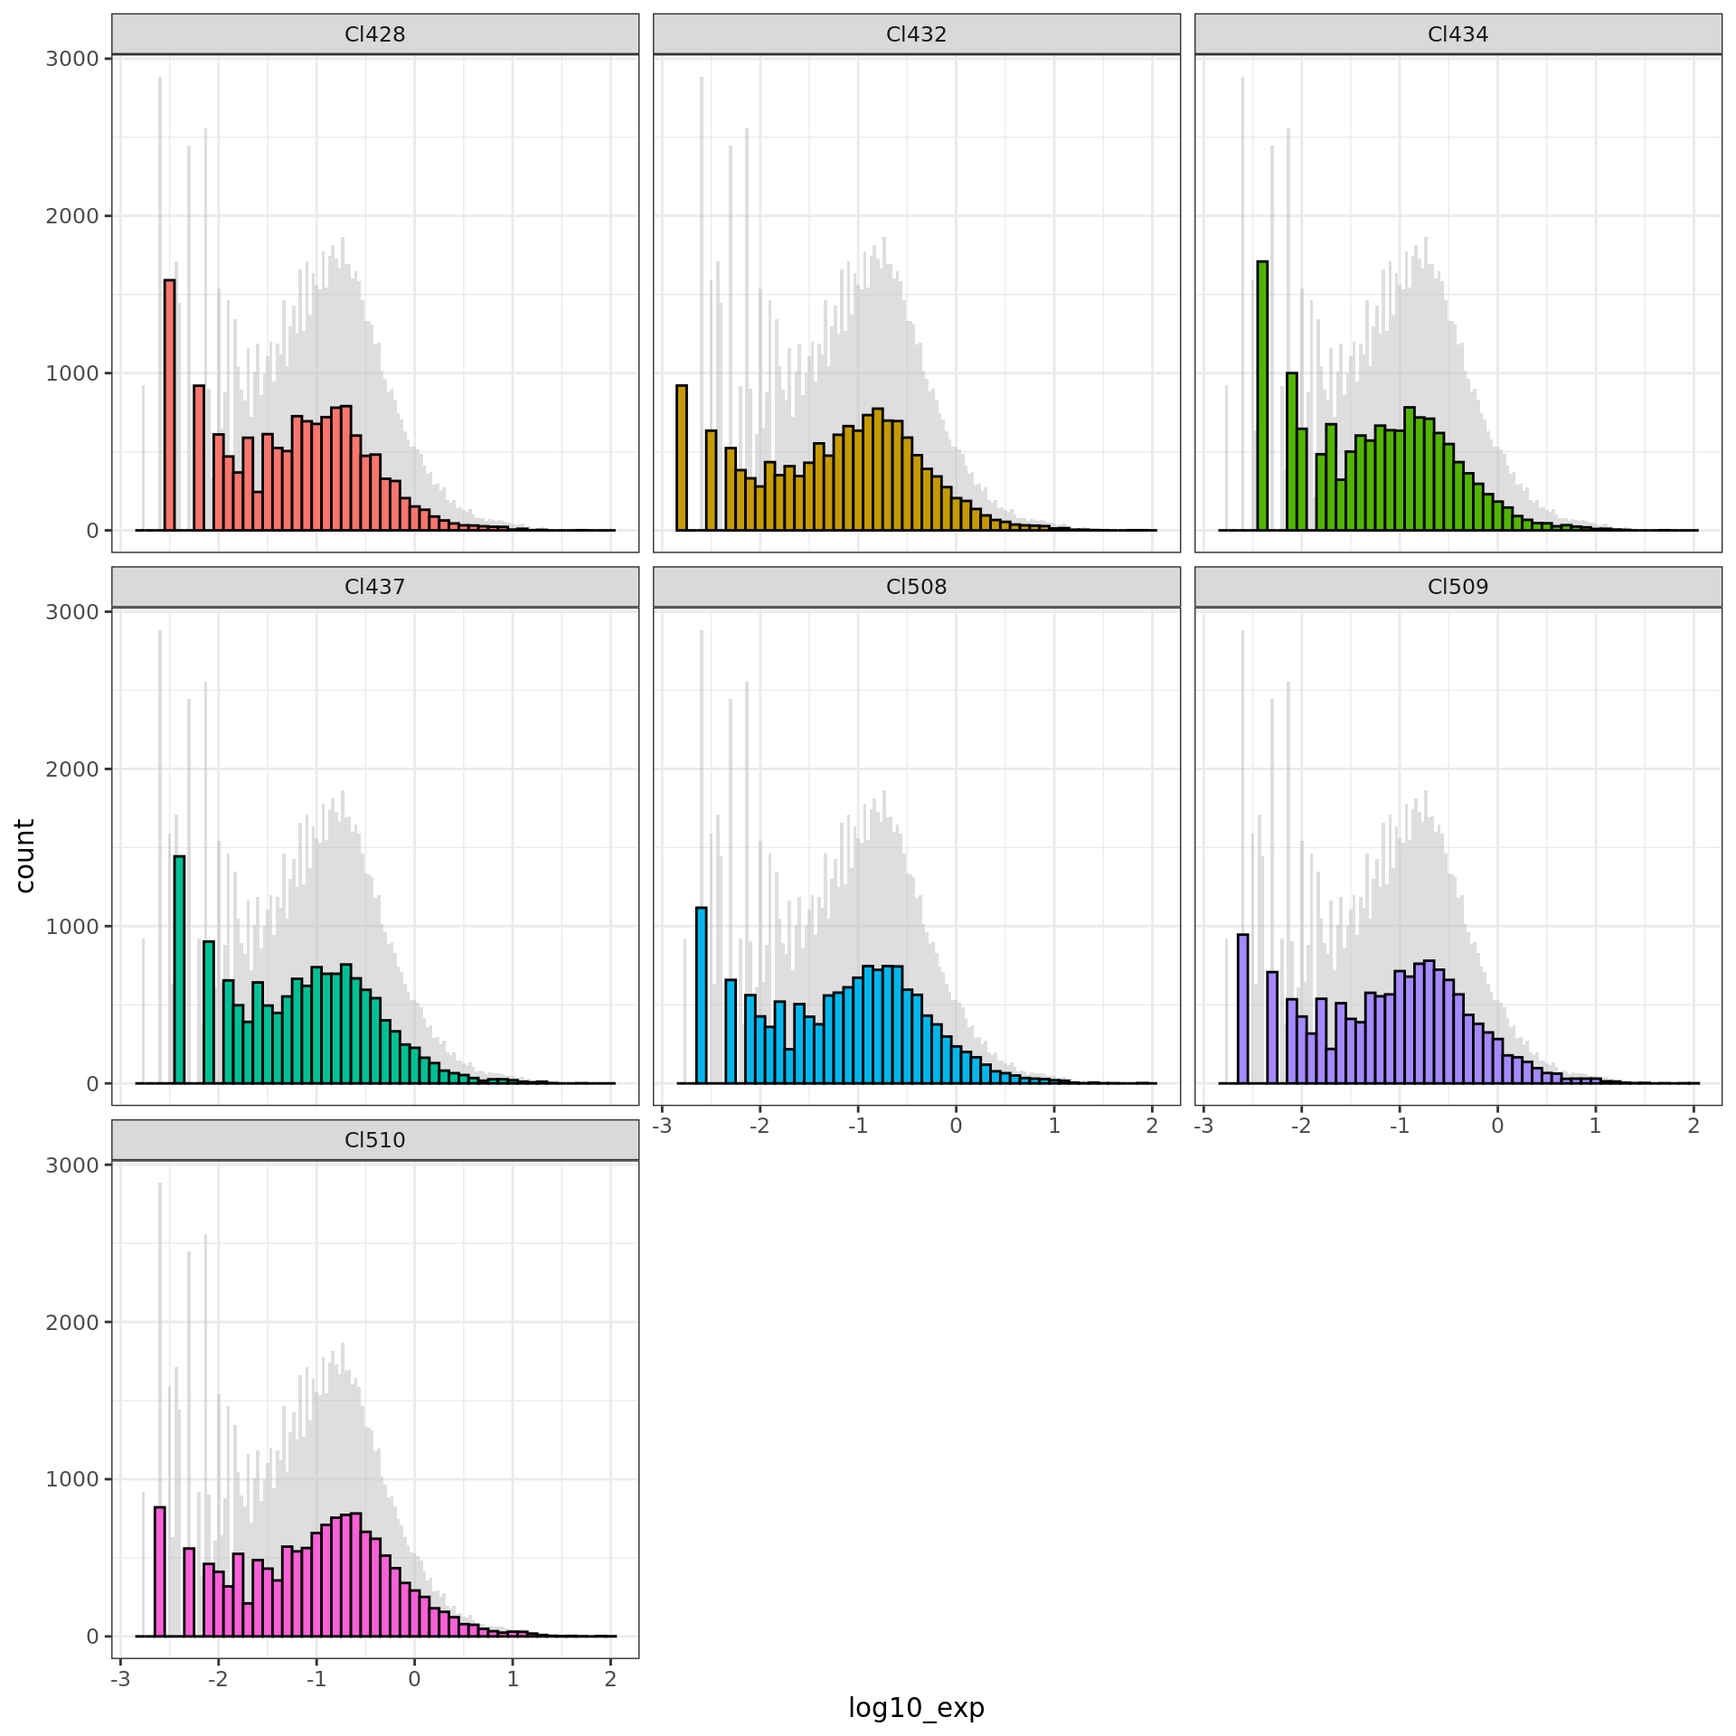
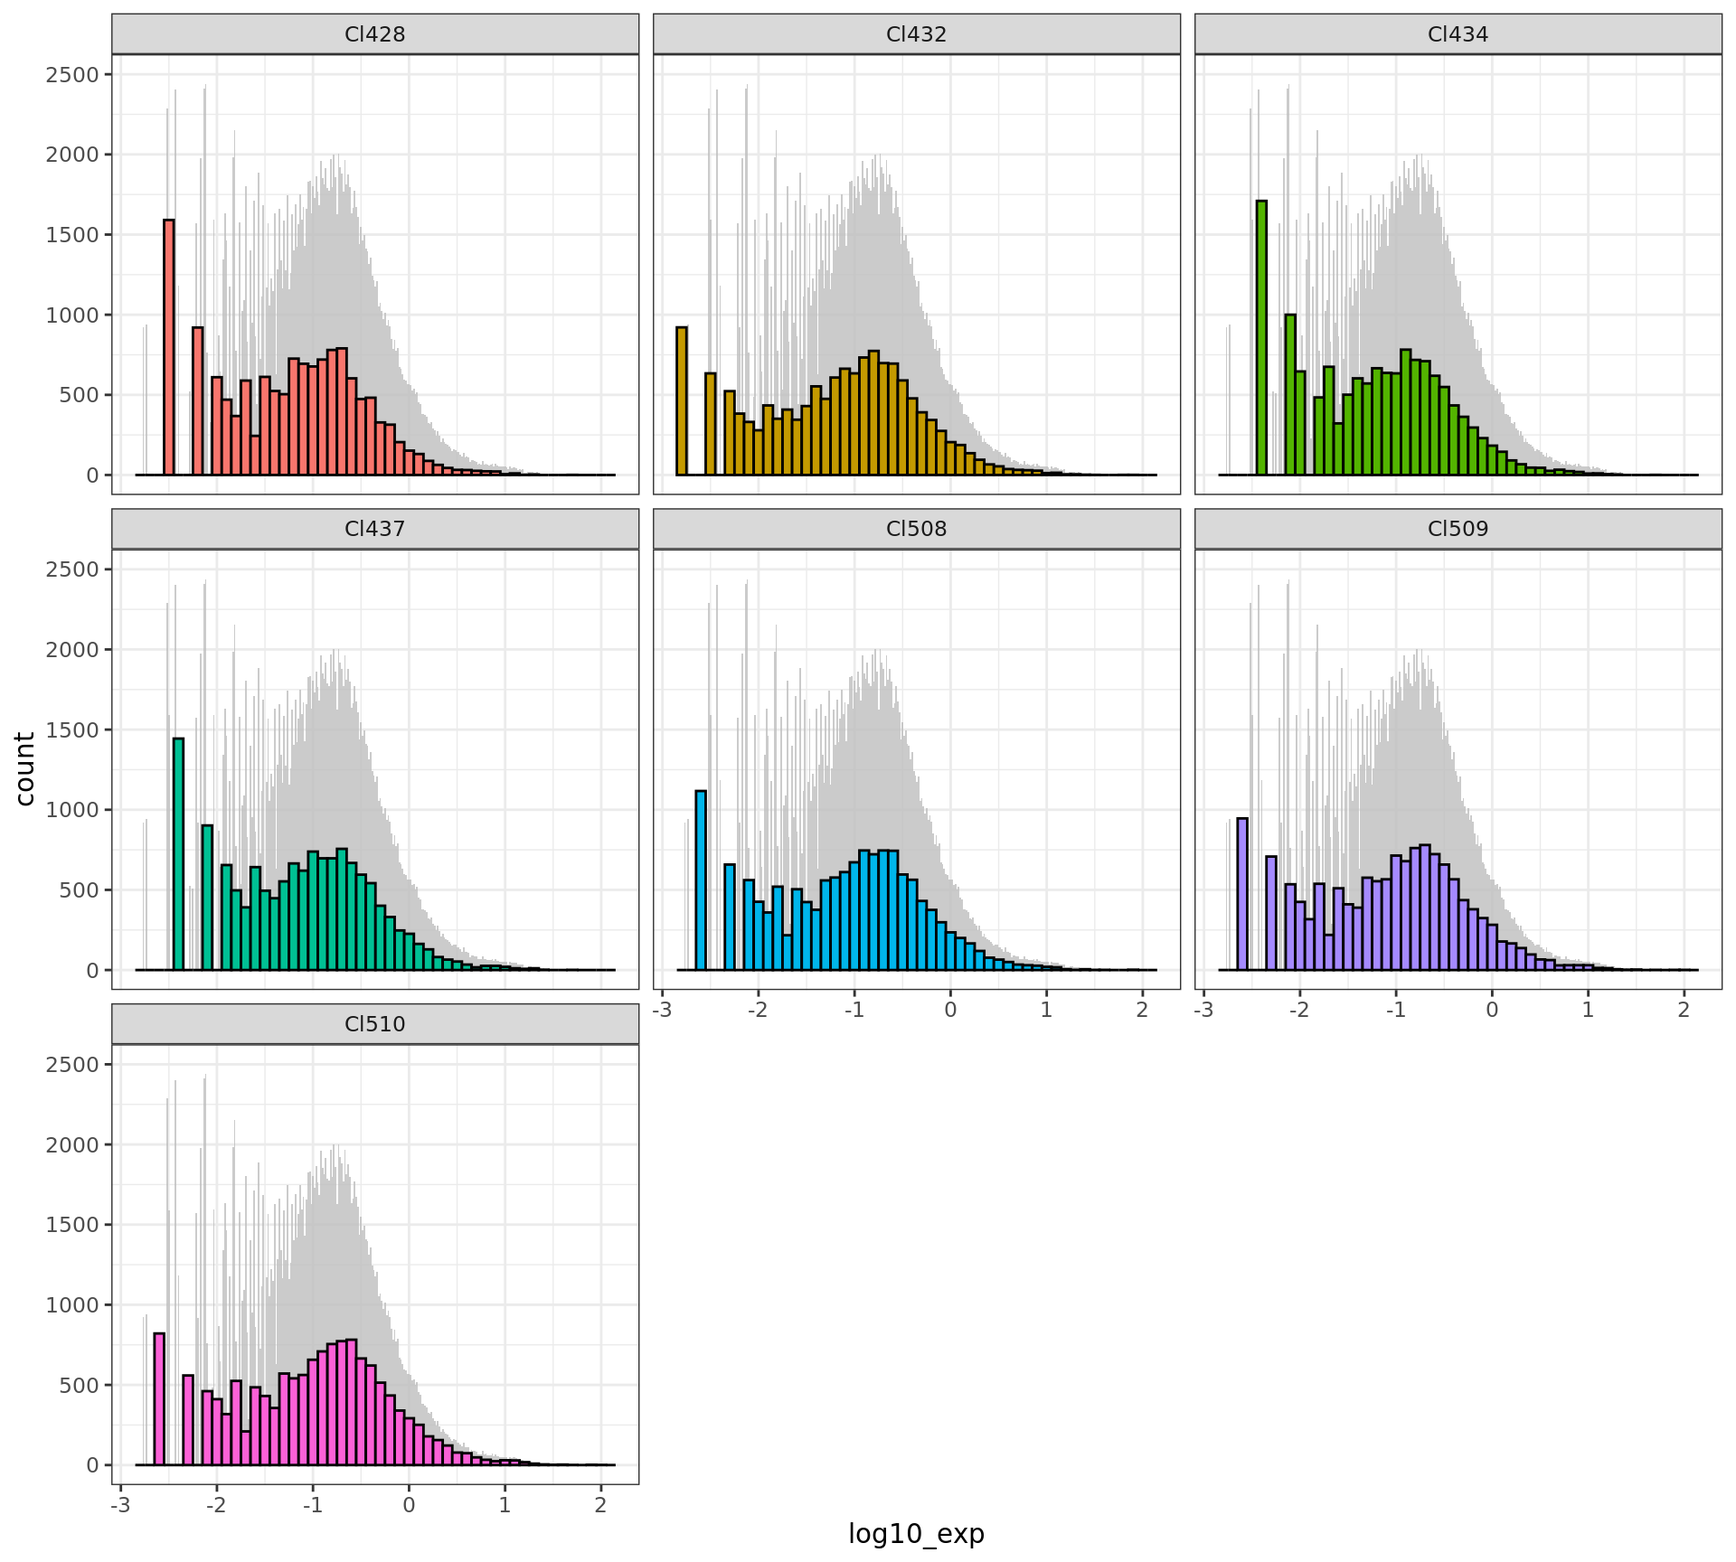
Built site for gh-pages

diff --git a/geneExpressionAnalysisUniformClusters.html b/geneExpressionAnalysisUniformClusters.html
@@ -494,35 +494,51 @@ pre > code.sourceCode > span > a:first-child::before { text-decoration: underlin
 <span id="cb2-5"><a href="#cb2-5" aria-hidden="true" tabindex="-1"></a>  cluster.name <span class="ot">&lt;-</span> <span class="fu">str_split</span>(name,<span class="at">pattern =</span> <span class="st">"e"</span>, <span class="at">simplify =</span> T)[<span class="dv">1</span>]</span>
 <span id="cb2-6"><a href="#cb2-6" aria-hidden="true" tabindex="-1"></a>  time.point <span class="ot">&lt;-</span> <span class="fu">paste0</span>(<span class="st">"E"</span>,<span class="fu">str_split</span>(name,<span class="at">pattern =</span> <span class="st">"e"</span>, <span class="at">simplify =</span> T)[<span class="dv">2</span>])</span>
 <span id="cb2-7"><a href="#cb2-7" aria-hidden="true" tabindex="-1"></a>  dataSet <span class="ot">&lt;-</span> <span class="fu">readRDS</span>(<span class="fu">paste0</span>(dataSetDir,dataSetName))</span>
-<span id="cb2-8"><a href="#cb2-8" aria-hidden="true" tabindex="-1"></a>  <span class="fu">message</span>(<span class="fu">dim</span>(dataSet))</span>
-<span id="cb2-9"><a href="#cb2-9" aria-hidden="true" tabindex="-1"></a>  df.temp <span class="ot">&lt;-</span> <span class="fu">as.data.frame</span>(<span class="fu">list</span>(<span class="st">"RowSums"</span><span class="ot">=</span><span class="fu">rowSums</span>(dataSet)))</span>
-<span id="cb2-10"><a href="#cb2-10" aria-hidden="true" tabindex="-1"></a>  df.temp<span class="sc">$</span>N.cells <span class="ot">&lt;-</span> <span class="fu">dim</span>(dataSet)[<span class="dv">2</span>]</span>
-<span id="cb2-11"><a href="#cb2-11" aria-hidden="true" tabindex="-1"></a>  df.temp<span class="sc">$</span>genes <span class="ot">&lt;-</span> <span class="fu">rownames</span>(df.temp)</span>
-<span id="cb2-12"><a href="#cb2-12" aria-hidden="true" tabindex="-1"></a>  df.temp<span class="sc">$</span>log10_exp <span class="ot">&lt;-</span> <span class="fu">log10</span>((df.temp<span class="sc">$</span>RowSums<span class="sc">+</span><span class="dv">1</span>)<span class="sc">/</span>df.temp<span class="sc">$</span>N.cells)</span>
-<span id="cb2-13"><a href="#cb2-13" aria-hidden="true" tabindex="-1"></a>  df.temp<span class="sc">$</span>cluster <span class="ot">&lt;-</span> cluster.name</span>
-<span id="cb2-14"><a href="#cb2-14" aria-hidden="true" tabindex="-1"></a>  df.temp<span class="sc">$</span>time.point <span class="ot">&lt;-</span> time.point</span>
-<span id="cb2-15"><a href="#cb2-15" aria-hidden="true" tabindex="-1"></a>  </span>
-<span id="cb2-16"><a href="#cb2-16" aria-hidden="true" tabindex="-1"></a>  df <span class="ot">&lt;-</span> <span class="fu">rbind</span>(df,df.temp)</span>
-<span id="cb2-17"><a href="#cb2-17" aria-hidden="true" tabindex="-1"></a>  </span>
-<span id="cb2-18"><a href="#cb2-18" aria-hidden="true" tabindex="-1"></a>}</span></code><button title="Copy to Clipboard" class="code-copy-button"><i class="bi"></i></button></pre></div>
+<span id="cb2-8"><a href="#cb2-8" aria-hidden="true" tabindex="-1"></a>  <span class="fu">print</span>(<span class="fu">dim</span>(dataSet))</span>
+<span id="cb2-9"><a href="#cb2-9" aria-hidden="true" tabindex="-1"></a>  <span class="fu">message</span>(<span class="fu">dim</span>(dataSet))</span>
+<span id="cb2-10"><a href="#cb2-10" aria-hidden="true" tabindex="-1"></a>  df.temp <span class="ot">&lt;-</span> <span class="fu">as.data.frame</span>(<span class="fu">list</span>(<span class="st">"RowSums"</span><span class="ot">=</span><span class="fu">rowSums</span>(dataSet)))</span>
+<span id="cb2-11"><a href="#cb2-11" aria-hidden="true" tabindex="-1"></a>  df.temp<span class="sc">$</span>N.cells <span class="ot">&lt;-</span> <span class="fu">dim</span>(dataSet)[<span class="dv">2</span>]</span>
+<span id="cb2-12"><a href="#cb2-12" aria-hidden="true" tabindex="-1"></a>  df.temp<span class="sc">$</span>genes <span class="ot">&lt;-</span> <span class="fu">rownames</span>(df.temp)</span>
+<span id="cb2-13"><a href="#cb2-13" aria-hidden="true" tabindex="-1"></a>  df.temp<span class="sc">$</span>log10_exp <span class="ot">&lt;-</span> <span class="fu">log10</span>((df.temp<span class="sc">$</span>RowSums<span class="sc">+</span><span class="dv">1</span>)<span class="sc">/</span>df.temp<span class="sc">$</span>N.cells)</span>
+<span id="cb2-14"><a href="#cb2-14" aria-hidden="true" tabindex="-1"></a>  df.temp<span class="sc">$</span>cluster <span class="ot">&lt;-</span> cluster.name</span>
+<span id="cb2-15"><a href="#cb2-15" aria-hidden="true" tabindex="-1"></a>  df.temp<span class="sc">$</span>time.point <span class="ot">&lt;-</span> time.point</span>
+<span id="cb2-16"><a href="#cb2-16" aria-hidden="true" tabindex="-1"></a>  </span>
+<span id="cb2-17"><a href="#cb2-17" aria-hidden="true" tabindex="-1"></a>  df <span class="ot">&lt;-</span> <span class="fu">rbind</span>(df,df.temp)</span>
+<span id="cb2-18"><a href="#cb2-18" aria-hidden="true" tabindex="-1"></a>  </span>
+<span id="cb2-19"><a href="#cb2-19" aria-hidden="true" tabindex="-1"></a>}</span></code><button title="Copy to Clipboard" class="code-copy-button"><i class="bi"></i></button></pre></div>
 <div class="cell-output cell-output-stdout">
 <pre><code>[1] "Cl184e13.5_ForebrainDorsalRawData.RDS"
+NULL
 [1] "Cl187e13.5_ForebrainDorsalRawData.RDS"
+[1] 13972   334
 [1] "Cl428e15.0_ForebrainDorsalRawData.RDS"
+[1] 13857   318
 [1] "Cl432e13.5_ForebrainDorsalRawData.RDS"
+[1] 13972   536
 [1] "Cl432e15.0_ForebrainDorsalRawData.RDS"
+[1] 13857   586
 [1] "Cl434e13.5_ForebrainDorsalRawData.RDS"
+[1] 13972   326
 [1] "Cl434e15.0_ForebrainDorsalRawData.RDS"
+[1] 13857   273
 [1] "Cl437e13.5_ForebrainDorsalRawData.RDS"
+[1] 13972   259
 [1] "Cl437e15.0_ForebrainDorsalRawData.RDS"
+[1] 13857   258
 [1] "Cl505e17.5_ForebrainDorsalRawData.RDS"
+[1] 13971   203
 [1] "Cl508e15.0_ForebrainDorsalRawData.RDS"
+[1] 13857   397
 [1] "Cl509e15.0_ForebrainDorsalRawData.RDS"
+[1] 13857   402
 [1] "Cl510e13.5_ForebrainDorsalRawData.RDS"
+[1] 13972   248
 [1] "Cl510e15.0_ForebrainDorsalRawData.RDS"
-[1] "Cl516e17.5_ForebrainDorsalRawData.RDS"</code></pre>
+[1] 13857   402
+[1] "Cl516e17.5_ForebrainDorsalRawData.RDS"
+[1] 13971   297</code></pre>
 </div>
-<div class="sourceCode cell-code" id="cb4"><pre class="sourceCode r code-with-copy"><code class="sourceCode r"><span id="cb4-1"><a href="#cb4-1" aria-hidden="true" tabindex="-1"></a>df <span class="ot">&lt;-</span> df[<span class="dv">2</span><span class="sc">:</span><span class="fu">nrow</span>(df),]</span>
+<div class="sourceCode cell-code" id="cb4"><pre class="sourceCode r code-with-copy"><code class="sourceCode r"><span id="cb4-1"><a href="#cb4-1" aria-hidden="true" tabindex="-1"></a> df <span class="ot">&lt;-</span> df[<span class="dv">2</span><span class="sc">:</span><span class="fu">nrow</span>(df),]</span>
 <span id="cb4-2"><a href="#cb4-2" aria-hidden="true" tabindex="-1"></a></span>
 <span id="cb4-3"><a href="#cb4-3" aria-hidden="true" tabindex="-1"></a>df<span class="sc">$</span>cl_time <span class="ot">&lt;-</span> <span class="fu">paste0</span>(df<span class="sc">$</span>cluster,<span class="st">"_"</span>,df<span class="sc">$</span>time.point)</span></code><button title="Copy to Clipboard" class="code-copy-button"><i class="bi"></i></button></pre></div>
 </div>
@@ -531,10 +547,10 @@ pre > code.sourceCode > span > a:first-child::before { text-decoration: underlin
 <span id="cb5-2"><a href="#cb5-2" aria-hidden="true" tabindex="-1"></a></span>
 <span id="cb5-3"><a href="#cb5-3" aria-hidden="true" tabindex="-1"></a><span class="fu">ggplot</span>(df[df<span class="sc">$</span>time.point <span class="sc">==</span> <span class="st">"E13.5"</span>,], </span>
 <span id="cb5-4"><a href="#cb5-4" aria-hidden="true" tabindex="-1"></a>       <span class="fu">aes</span>(<span class="at">x =</span> log10_exp, <span class="at">fill =</span> cluster)) <span class="sc">+</span></span>
-<span id="cb5-5"><a href="#cb5-5" aria-hidden="true" tabindex="-1"></a>  <span class="fu">geom_histogram</span>(<span class="at">data =</span> d_bg[d_bg<span class="sc">$</span>time.point <span class="sc">==</span> <span class="st">"E13.5"</span>,], </span>
-<span id="cb5-6"><a href="#cb5-6" aria-hidden="true" tabindex="-1"></a>                 <span class="at">fill =</span> <span class="st">"grey"</span>, <span class="at">alpha =</span> .<span class="dv">5</span>,<span class="at">binwidth =</span> <span class="fl">0.1</span><span class="sc">/</span><span class="dv">3</span>) <span class="sc">+</span></span>
+<span id="cb5-5"><a href="#cb5-5" aria-hidden="true" tabindex="-1"></a>  <span class="fu">geom_histogram</span>(<span class="at">data =</span> d_bg, </span>
+<span id="cb5-6"><a href="#cb5-6" aria-hidden="true" tabindex="-1"></a>                 <span class="at">fill =</span> <span class="st">"grey"</span>, <span class="at">alpha =</span> .<span class="dv">8</span>,<span class="at">binwidth =</span> <span class="fl">0.1</span><span class="sc">/</span><span class="dv">6</span>) <span class="sc">+</span></span>
 <span id="cb5-7"><a href="#cb5-7" aria-hidden="true" tabindex="-1"></a>  <span class="fu">geom_histogram</span>(<span class="at">colour =</span> <span class="st">"black"</span>,<span class="at">binwidth =</span> <span class="fl">0.1</span>) <span class="sc">+</span></span>
-<span id="cb5-8"><a href="#cb5-8" aria-hidden="true" tabindex="-1"></a>  <span class="fu">facet_wrap</span>(<span class="sc">~</span> cluster) <span class="sc">+</span></span>
+<span id="cb5-8"><a href="#cb5-8" aria-hidden="true" tabindex="-1"></a>  <span class="fu">facet_wrap</span>(<span class="sc">~</span> cluster) <span class="sc">+</span> <span class="fu">ylim</span>(<span class="dv">0</span>,<span class="dv">2500</span>)<span class="sc">+</span></span>
 <span id="cb5-9"><a href="#cb5-9" aria-hidden="true" tabindex="-1"></a>  <span class="fu">guides</span>(<span class="at">fill =</span> <span class="cn">FALSE</span>) <span class="sc">+</span>  <span class="co"># to remove the legend</span></span>
 <span id="cb5-10"><a href="#cb5-10" aria-hidden="true" tabindex="-1"></a>  <span class="fu">theme_bw</span>()  </span></code><button title="Copy to Clipboard" class="code-copy-button"><i class="bi"></i></button></pre></div>
 <div class="cell-output-display">
@@ -544,10 +560,10 @@ pre > code.sourceCode > span > a:first-child::before { text-decoration: underlin
 <div class="cell">
 <div class="sourceCode cell-code" id="cb6"><pre class="sourceCode r code-with-copy"><code class="sourceCode r"><span id="cb6-1"><a href="#cb6-1" aria-hidden="true" tabindex="-1"></a><span class="fu">ggplot</span>(df[df<span class="sc">$</span>time.point <span class="sc">==</span> <span class="st">"E15.0"</span>,], </span>
 <span id="cb6-2"><a href="#cb6-2" aria-hidden="true" tabindex="-1"></a>       <span class="fu">aes</span>(<span class="at">x =</span> log10_exp, <span class="at">fill =</span> cluster)) <span class="sc">+</span></span>
-<span id="cb6-3"><a href="#cb6-3" aria-hidden="true" tabindex="-1"></a>  <span class="fu">geom_histogram</span>(<span class="at">data =</span> d_bg[d_bg<span class="sc">$</span>time.point <span class="sc">==</span> <span class="st">"E15.0"</span>,], </span>
-<span id="cb6-4"><a href="#cb6-4" aria-hidden="true" tabindex="-1"></a>                 <span class="at">fill =</span> <span class="st">"grey"</span>, <span class="at">alpha =</span> .<span class="dv">5</span>,<span class="at">binwidth =</span> <span class="fl">0.1</span><span class="sc">/</span><span class="dv">3</span>) <span class="sc">+</span></span>
+<span id="cb6-3"><a href="#cb6-3" aria-hidden="true" tabindex="-1"></a>  <span class="fu">geom_histogram</span>(<span class="at">data =</span> d_bg, </span>
+<span id="cb6-4"><a href="#cb6-4" aria-hidden="true" tabindex="-1"></a>                 <span class="at">fill =</span> <span class="st">"grey"</span>, <span class="at">alpha =</span> .<span class="dv">8</span>,<span class="at">binwidth =</span> <span class="fl">0.1</span><span class="sc">/</span><span class="dv">6</span>) <span class="sc">+</span></span>
 <span id="cb6-5"><a href="#cb6-5" aria-hidden="true" tabindex="-1"></a>  <span class="fu">geom_histogram</span>(<span class="at">colour =</span> <span class="st">"black"</span>,<span class="at">binwidth =</span> <span class="fl">0.1</span>) <span class="sc">+</span></span>
-<span id="cb6-6"><a href="#cb6-6" aria-hidden="true" tabindex="-1"></a>  <span class="fu">facet_wrap</span>(<span class="sc">~</span> cluster) <span class="sc">+</span></span>
+<span id="cb6-6"><a href="#cb6-6" aria-hidden="true" tabindex="-1"></a>  <span class="fu">facet_wrap</span>(<span class="sc">~</span> cluster) <span class="sc">+</span> <span class="fu">ylim</span>(<span class="dv">0</span>,<span class="dv">2500</span>)<span class="sc">+</span></span>
 <span id="cb6-7"><a href="#cb6-7" aria-hidden="true" tabindex="-1"></a>  <span class="fu">guides</span>(<span class="at">fill =</span> <span class="cn">FALSE</span>) <span class="sc">+</span>  <span class="co"># to remove the legend</span></span>
 <span id="cb6-8"><a href="#cb6-8" aria-hidden="true" tabindex="-1"></a>  <span class="fu">theme_bw</span>()  </span></code><button title="Copy to Clipboard" class="code-copy-button"><i class="bi"></i></button></pre></div>
 <div class="cell-output-display">
@@ -557,10 +573,10 @@ pre > code.sourceCode > span > a:first-child::before { text-decoration: underlin
 <div class="cell">
 <div class="sourceCode cell-code" id="cb7"><pre class="sourceCode r code-with-copy"><code class="sourceCode r"><span id="cb7-1"><a href="#cb7-1" aria-hidden="true" tabindex="-1"></a><span class="fu">ggplot</span>(df[df<span class="sc">$</span>time.point <span class="sc">==</span> <span class="st">"E17.5"</span>,], </span>
 <span id="cb7-2"><a href="#cb7-2" aria-hidden="true" tabindex="-1"></a>       <span class="fu">aes</span>(<span class="at">x =</span> log10_exp, <span class="at">fill =</span> cluster)) <span class="sc">+</span></span>
-<span id="cb7-3"><a href="#cb7-3" aria-hidden="true" tabindex="-1"></a>  <span class="fu">geom_histogram</span>(<span class="at">data =</span> d_bg[d_bg<span class="sc">$</span>time.point <span class="sc">==</span> <span class="st">"E17.5"</span>,], </span>
-<span id="cb7-4"><a href="#cb7-4" aria-hidden="true" tabindex="-1"></a>                 <span class="at">fill =</span> <span class="st">"grey"</span>, <span class="at">alpha =</span> .<span class="dv">5</span>) <span class="sc">+</span></span>
+<span id="cb7-3"><a href="#cb7-3" aria-hidden="true" tabindex="-1"></a>  <span class="fu">geom_histogram</span>(<span class="at">data =</span> d_bg, </span>
+<span id="cb7-4"><a href="#cb7-4" aria-hidden="true" tabindex="-1"></a>                 <span class="at">fill =</span> <span class="st">"grey"</span>, <span class="at">alpha =</span> .<span class="dv">8</span>,<span class="at">binwidth =</span> <span class="fl">0.1</span><span class="sc">/</span><span class="dv">6</span>) <span class="sc">+</span></span>
 <span id="cb7-5"><a href="#cb7-5" aria-hidden="true" tabindex="-1"></a>  <span class="fu">geom_histogram</span>(<span class="at">colour =</span> <span class="st">"black"</span>) <span class="sc">+</span></span>
-<span id="cb7-6"><a href="#cb7-6" aria-hidden="true" tabindex="-1"></a>  <span class="fu">facet_wrap</span>(<span class="sc">~</span> cluster) <span class="sc">+</span></span>
+<span id="cb7-6"><a href="#cb7-6" aria-hidden="true" tabindex="-1"></a>  <span class="fu">facet_wrap</span>(<span class="sc">~</span> cluster) <span class="sc">+</span><span class="fu">ylim</span>(<span class="dv">0</span>,<span class="dv">2500</span>)<span class="sc">+</span></span>
 <span id="cb7-7"><a href="#cb7-7" aria-hidden="true" tabindex="-1"></a>  <span class="fu">guides</span>(<span class="at">fill =</span> <span class="cn">FALSE</span>) <span class="sc">+</span>  <span class="co"># to remove the legend</span></span>
 <span id="cb7-8"><a href="#cb7-8" aria-hidden="true" tabindex="-1"></a>  <span class="fu">theme_bw</span>()  </span></code><button title="Copy to Clipboard" class="code-copy-button"><i class="bi"></i></button></pre></div>
 <div class="cell-output-display">
@@ -582,7 +598,7 @@ pre > code.sourceCode > span > a:first-child::before { text-decoration: underlin
 <span id="cb8-12"><a href="#cb8-12" aria-hidden="true" tabindex="-1"></a>  <span class="at">stroke_size =</span> <span class="fl">0.5</span>, <span class="at">set_name_size =</span> <span class="dv">4</span></span>
 <span id="cb8-13"><a href="#cb8-13" aria-hidden="true" tabindex="-1"></a>  )<span class="sc">+</span> <span class="fu">scale_fill_distiller</span>(<span class="at">palette =</span> <span class="st">"RdBu"</span>)</span></code><button title="Copy to Clipboard" class="code-copy-button"><i class="bi"></i></button></pre></div>
 <div class="cell-output-display">
-<p><img src="geneExpressionAnalysisUniformClusters_files/figure-html/unnamed-chunk-3-1.png" class="img-fluid" width="960"></p>
+<p><img src="geneExpressionAnalysisUniformClusters_files/figure-html/unnamed-chunk-3-1.png" class="img-fluid" width="768"></p>
 </div>
 </div>
 <div class="cell">
